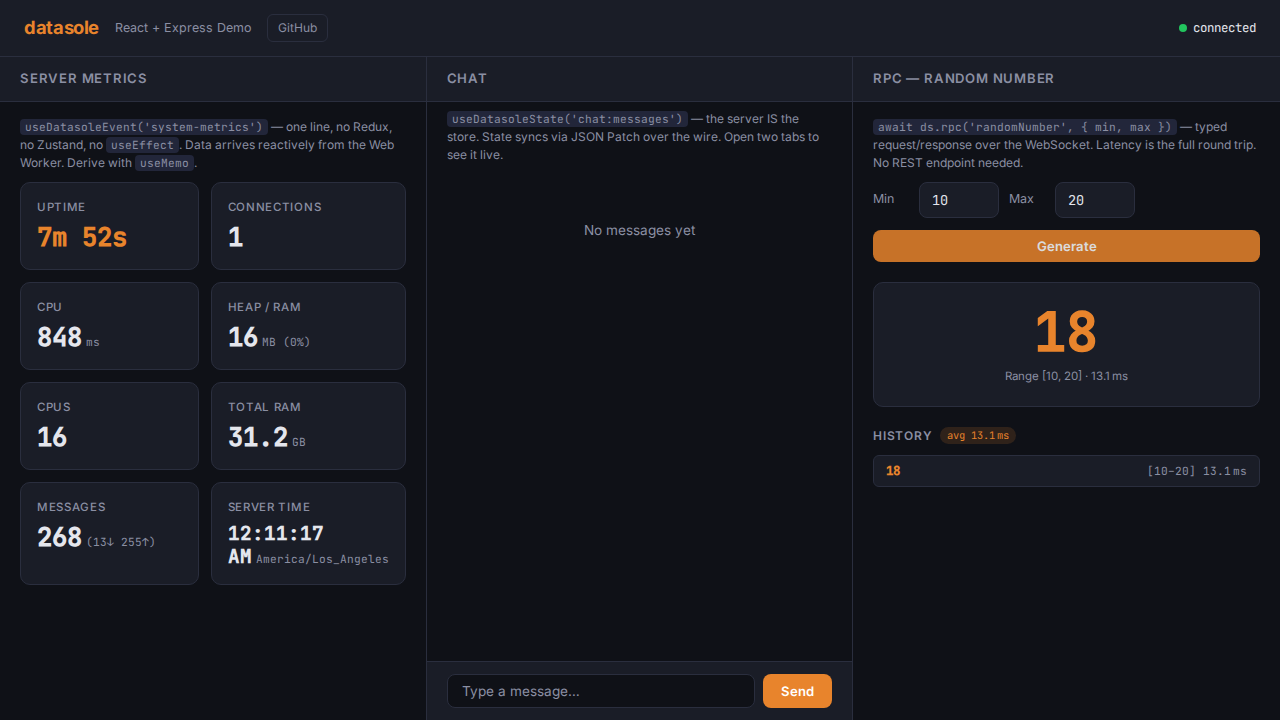
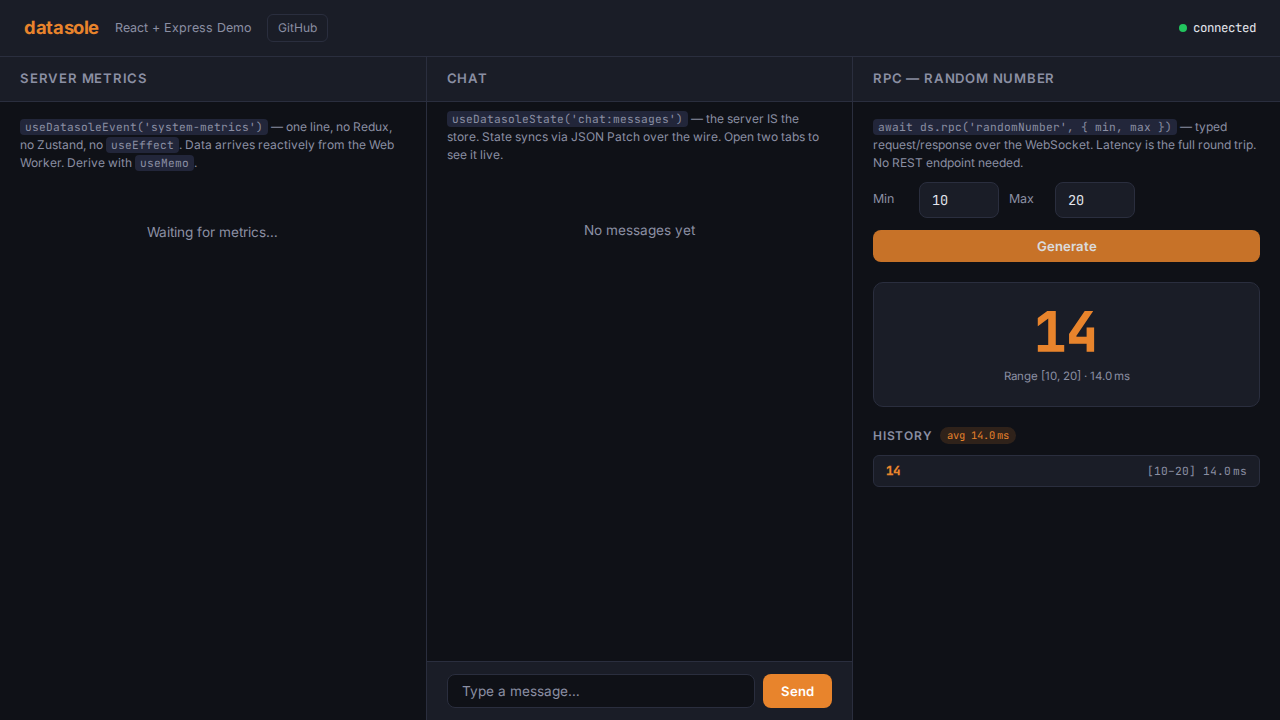
ci: make exhaustive validation reliable after main integration
Restore deterministic exhaustive validation on main after the prior integration left one fresh-Node demo import broken and one CRDT end-to-end spec prone to false failures.
Capture the validated artifact updates produced by the passing full gate so the repository state matches the exact screenshots and metrics generated by the fix.

- fix the Vue NestJS demo server import so seeded random loading works on fresh CI environments
- isolate the CRDT e2e server per test and wait for converged counter values before asserting decrement behavior
- refresh the metrics history emitted by the successful exhaustive verification run
- update the regenerated React demo RPC screenshot produced by that validated run

Made-with: Cursor

diff --git a/test/e2e/specs/crdt.e2e.ts b/test/e2e/specs/crdt.e2e.ts
@@ -4,13 +4,14 @@ import { snap } from '../helpers/screenshots';
 import { ServerHarness } from '../helpers/server-harness';
 
 test.describe('CRDT', () => {
-  const harness = new ServerHarness();
+  let harness: ServerHarness;
 
-  test.beforeAll(async () => {
+  test.beforeEach(async () => {
+    harness = new ServerHarness();
     await harness.start();
   });
 
-  test.afterAll(async () => {
+  test.afterEach(async () => {
     await harness.stop();
   });
 
@@ -56,8 +57,21 @@ test.describe('CRDT', () => {
     await page.evaluate(() => window.__initCrdt('e2e-client-2'));
 
     await page.evaluate(() => window.__crdtIncrement());
+    await page.waitForFunction(() => window.__crdtGetValue() === 1, null, {
+      timeout: 5000,
+    });
+
     await page.evaluate(() => window.__crdtIncrement());
-    const afterDec = await page.evaluate(() => window.__crdtDecrement());
+    await page.waitForFunction(() => window.__crdtGetValue() === 2, null, {
+      timeout: 5000,
+    });
+
+    await page.evaluate(() => window.__crdtDecrement());
+    await page.waitForFunction(() => window.__crdtGetValue() === 1, null, {
+      timeout: 5000,
+    });
+
+    const afterDec = await page.evaluate(() => window.__crdtGetValue());
     expect(afterDec).toBe(1);
 
     await snap(page, testInfo, 'crdt-decrement');

diff --git a/demos/vue-nestjs/server/src/datasole.service.ts b/demos/vue-nestjs/server/src/datasole.service.ts
@@ -2,7 +2,7 @@ import 'reflect-metadata';
 import { Injectable, OnModuleDestroy } from '@nestjs/common';
 import os from 'os';
 import { DatasoleServer } from 'datasole/server';
-import { createSeededRandom } from '../../../seeded-random.js';
+import { createSeededRandom } from '../../../seeded-random.mjs';
 import { AppContract, RpcMethod, Event, StateKey, ChatMessage } from '../../shared/contract';
 
 @Injectable()
